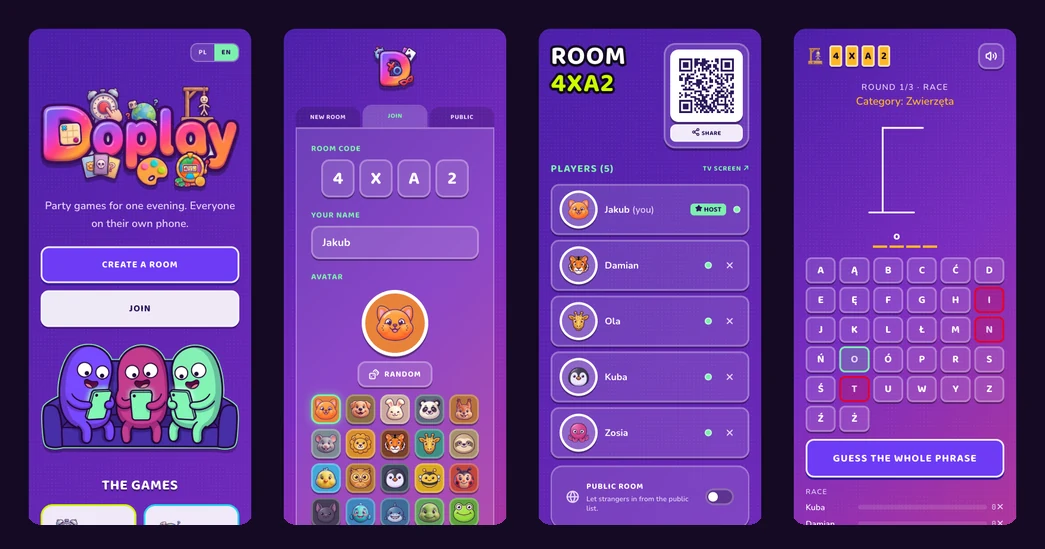
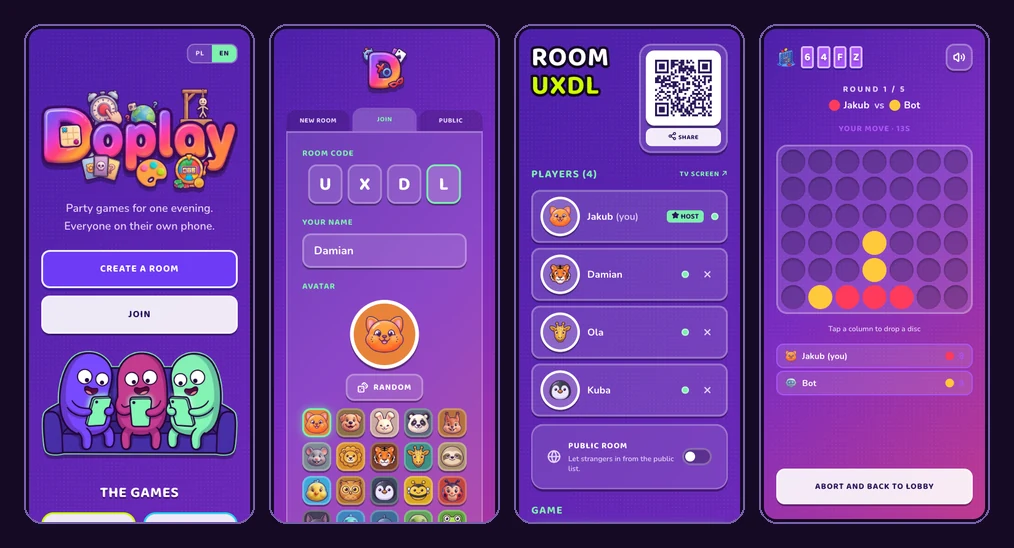
docs(README): nowe zrzuty z Czwórkami i Statkami
Paski telefonów odświeżone w obu językach - czwarty ekran to teraz Czwórki zamiast
Wisielca, więc obie nowe gry są widoczne od razu po wejściu do README. Lobby pokazuje
czterech graczy, każdy z osobnej tożsamości: Firebase trzyma logowanie anonimowe per
ORIGIN, więc localhost, 127.0.0.1, [::1] i adres LAN to czterech różnych ludzi w tym
samym pokoju.

Statki dostały własne złożenie, jak wcześniej Chińczyk, tylko z trzech kadrów: ustawianie
floty, celne trafienie i ekran wspólny. Środkowy jest tu najważniejszy - widać zatopiony
czteromasztowiec i wodę, która odsłoniła się sama, bo statki nie mogą się stykać. A na
telewizorze nie ma ŻADNEJ floty, tylko to, co odsłoniły strzały; dokładnie tego pilnuje
`tajnosc.test.ts`.

Zrzut lobby na TV zostaje stary: pokazuje kod, QR i graczy, więc dołożenie dwóch gier
niczego w nim nie zmienia.

Dwie rzeczy do zapamiętania z robienia tych zrzutów. Pasek „masz aktywny pokój" na
landingu to ślad po sesji testowej, a nie widok pierwszego wejścia - trzeba wyczyścić
`domowka-session`. I `location.reload()` w `browser_evaluate` zabija kontekst wykonania,
przez co wywołanie wisi do timeoutu; przeładowanie robi się nawigacją.

diff --git a/README.md b/README.md
@@ -53,11 +53,11 @@ The interface switches whole: nothing is left half-translated.
 
 **Polski**
 
-![Doplay in Polish: landing, joining a room, lobby and a Hangman round](docs/screenshots/telefony-pl.webp)
+![Doplay in Polish: landing, joining a room, lobby and a Four in a Row round](docs/screenshots/telefony-pl.webp)
 
 **English**
 
-![Doplay in English: landing, joining a room, lobby and a Hangman round](docs/screenshots/telefony-en.webp)
+![Doplay in English: landing, joining a room, lobby and a Four in a Row round](docs/screenshots/telefony-en.webp)
 
 ### Host screen (TV)
 
@@ -73,6 +73,21 @@ shared screen with whose turn it is and how many pieces each player has brought 
 the four seats here are bots, added in the lobby.
 
 ![Ludo: the player's phone and the host screen side by side, same turn and same die](docs/screenshots/chinczyk.webp)
+
+### Battleships: your fleet is yours alone
+
+Left to right: arranging the fleet, a shot landing, and what the shared screen shows. Drag a ship
+to move it - the piece you grabbed stays under your finger, and it turns red where it will not fit.
+
+The middle phone is the point of the game. A sunk ship turns solid and **the water around it opens
+by itself** - ships may not touch, so there is nothing left to look for there. Below your opponent's
+board, the fleet bar dims the ships already down.
+
+And the TV, which everybody in the room can see, shows **only what shots have revealed**. Nobody's
+fleet is ever on that screen, including yours - the engine never sends it, so there is nothing to
+leak. That is the part the tests care about most.
+
+![Battleships: arranging the fleet, a sunk ship on the phone, and both boards on the TV](docs/screenshots/statki.webp)
 
 ## Games
 
